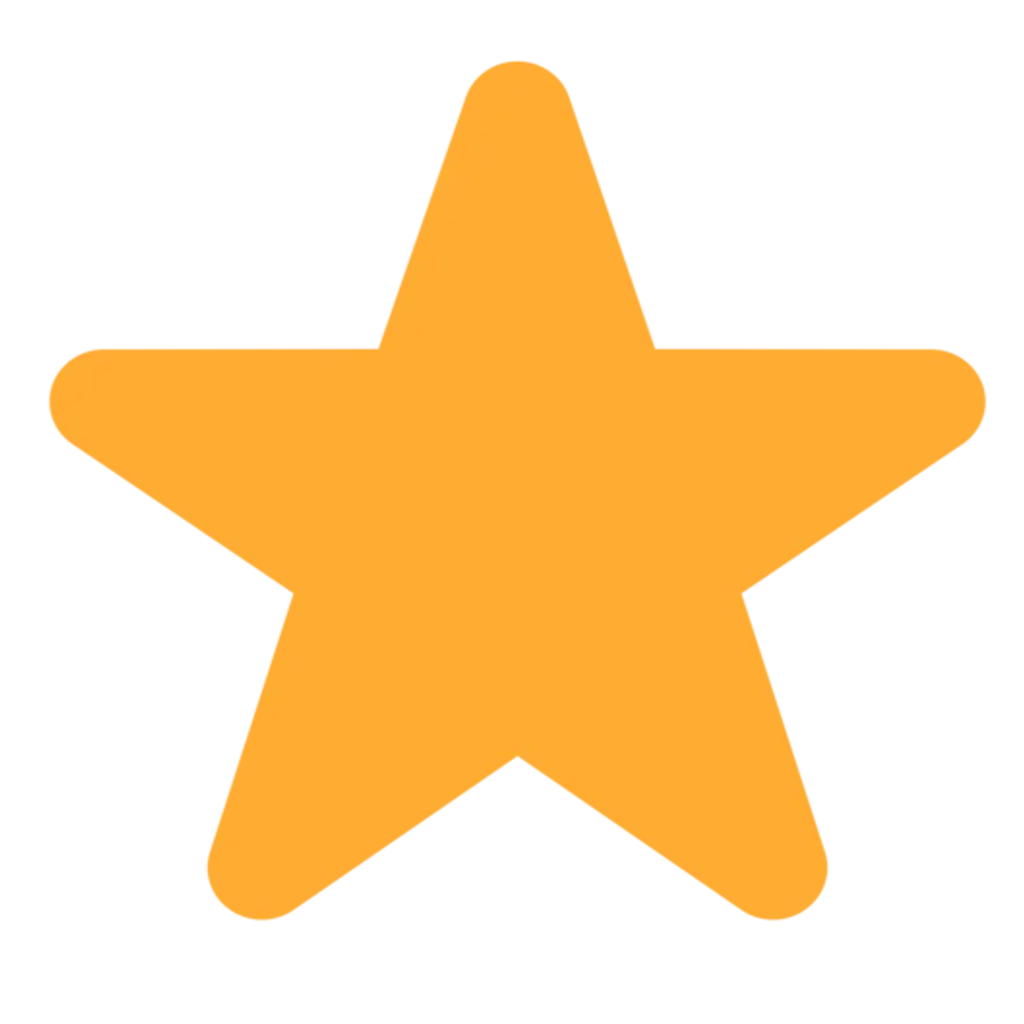
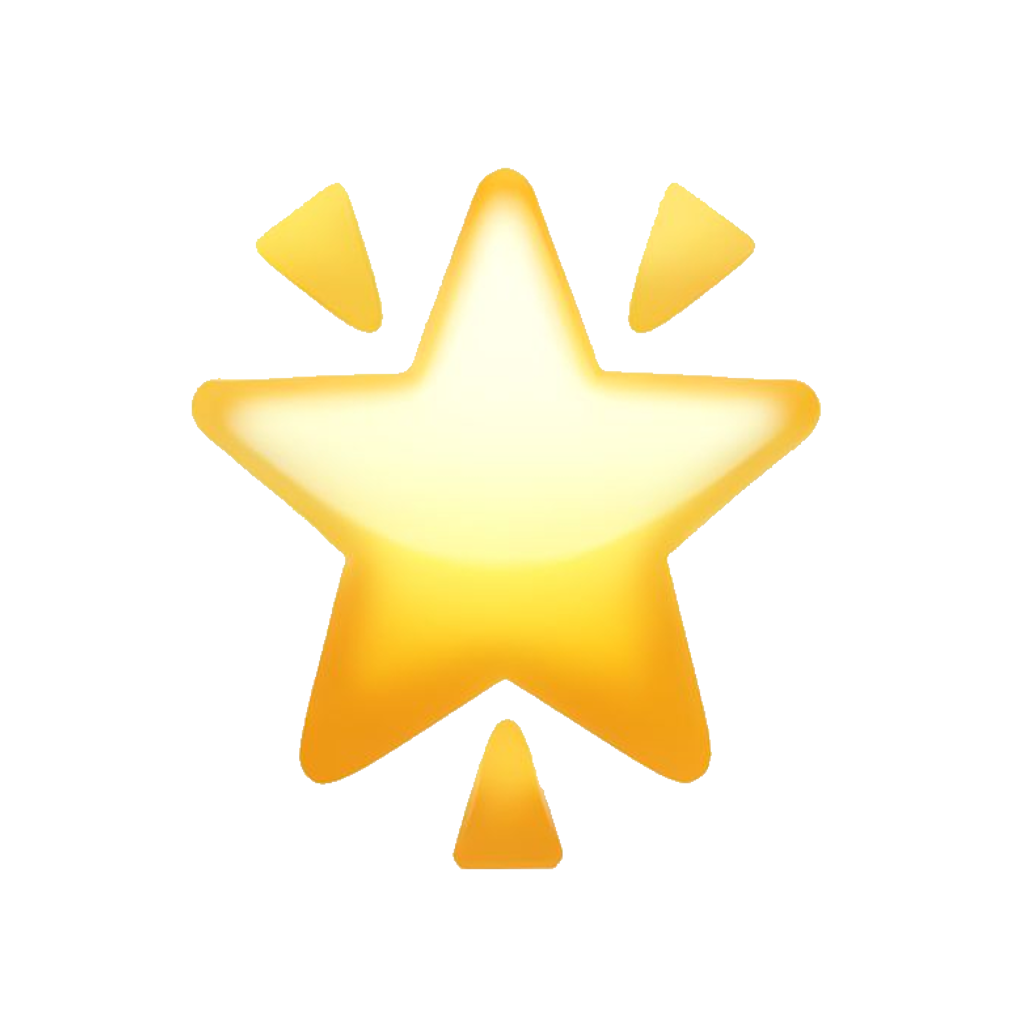
first game done, music implementation at the end

diff --git a/CART 253 Pippins/variation jam/template-p5-project/js/script.js b/CART 253 Pippins/variation jam/template-p5-project/js/script.js
@@ -22,6 +22,13 @@ const octopus = {
     eyes: { size: 20, pupilSize: 10 },
 };
 
+// IMAGES FOR CREATURES + BACKGROUND + OCTOPUS
+let starImg;
+let shellImg;
+let jellyImg;
+let bgImg;
+let octopusImg;
+
 let creatures = [];
 let score = 0;
 let timer = 60;
@@ -34,20 +41,32 @@ let maxLevel = 3;
 let highScore = 0;
 let gameState = "menu";
 
-// SETUP
-
-function preload(){
-    //starImg = loadImage("assets/images/star.png");
+// PRELOAD
+function preload() {
+    starImg  = loadImage("assets/images/star.png");
+    shellImg = loadImage("assets/images/shell.png");
+    jellyImg = loadImage("assets/images/jelly.png");
+    bgImg    = loadImage("assets/images/seafloor.png");
+    octopusImg = loadImage("assets/images/octopus.png");
 }
+
+// SETUP
 function setup() {
     createCanvas(640, 480);
     textFont("Cinzel");
+    imageMode(CENTER);
     initGame();
 }
 
 function draw() {
-    background("#003355");
-    drawSeaFloor();
+    if (bgImg) {
+        imageMode(CORNER);    
+        image(bgImg, 0, 0, width, height);
+        imageMode(CENTER);     
+    } else {
+        background("#003355"); 
+        drawSeaFloor();         
+    }
 
     if (gameState === "menu") drawMenuScreen();
     else if (gameState === "play") {
@@ -92,7 +111,7 @@ function drawMenuScreen() {
     textSize(18);
     text("Move the octopus with your mouse", width/2, height/2 - 20);
     text("Click to shoot a bubble", width/2, height/2 + 10);
-    text("Catch ★ starfish & shells!", width/2, height/2 + 40);
+    text("Catch starfish and shells!", width/2, height/2 + 40);
     text("Avoid jellyfish (score -2)", width/2, height/2 + 70);
 
     fill("#ffdd00");
@@ -164,16 +183,26 @@ function moveCreatures() {
     }
 }
 
-// CREATURES
+// CREATURES 
 function drawCreatures() {
     for (let c of creatures) {
-        noStroke();
+        let img = null;
 
-        if (c.type === "star") fill("#ffcc00");
-        else if (c.type === "jelly") fill("#ff5555");
-        else fill("#eeeeee");
+        if (c.type === "star")       img = starImg;
+        else if (c.type === "jelly") img = jellyImg;
+        else if (c.type === "shell") img = shellImg;
 
-        ellipse(c.x, c.y, c.size);
+        if (img) {
+            const w = c.size * 2;
+            const h = c.size * 2;
+            image(img, c.x, c.y, w, h);
+        } else {
+            noStroke();
+            if (c.type === "star") fill("#ffcc00");
+            else if (c.type === "jelly") fill("#ff5555");
+            else fill("#eeeeee");
+            ellipse(c.x, c.y, c.size);
+        }
     }
 }
 
@@ -212,11 +241,16 @@ function drawBubble() {
 
 // OCTOPUS
 function drawOctopus() {
-    fill(octopus.color);
-    noStroke();
-    ellipse(octopus.body.x, octopus.body.y, octopus.body.size);
-
-    drawEyes();
+    if (octopusImg) {
+        const w = octopus.body.size * 1.2;
+        const h = octopus.body.size * 1.2;
+        image(octopusImg, octopus.body.x, octopus.body.y, w, h);
+    } else {
+        fill(octopus.color);
+        noStroke();
+        ellipse(octopus.body.x, octopus.body.y, octopus.body.size);
+        drawEyes();
+    }
 }
 
 // EYES
